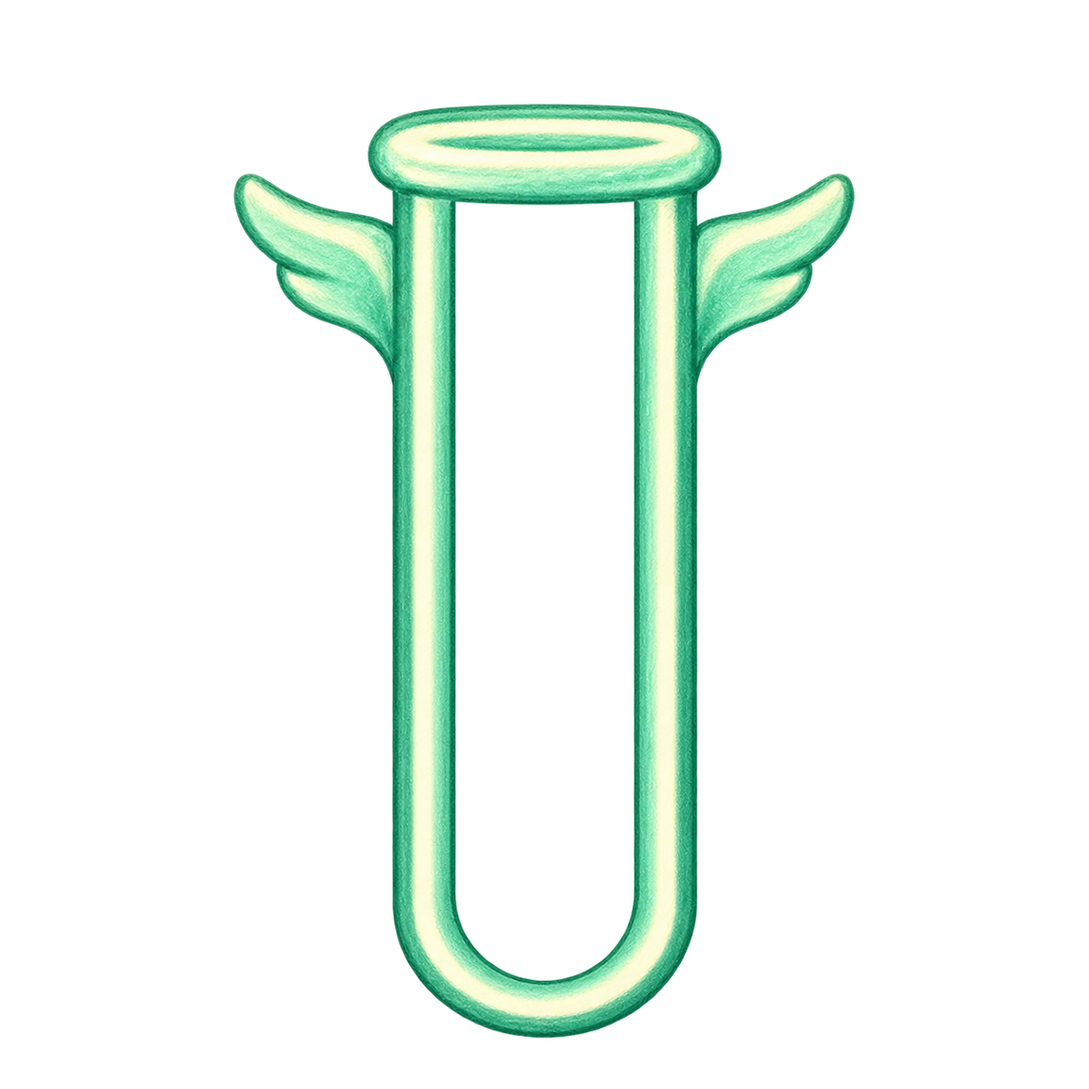
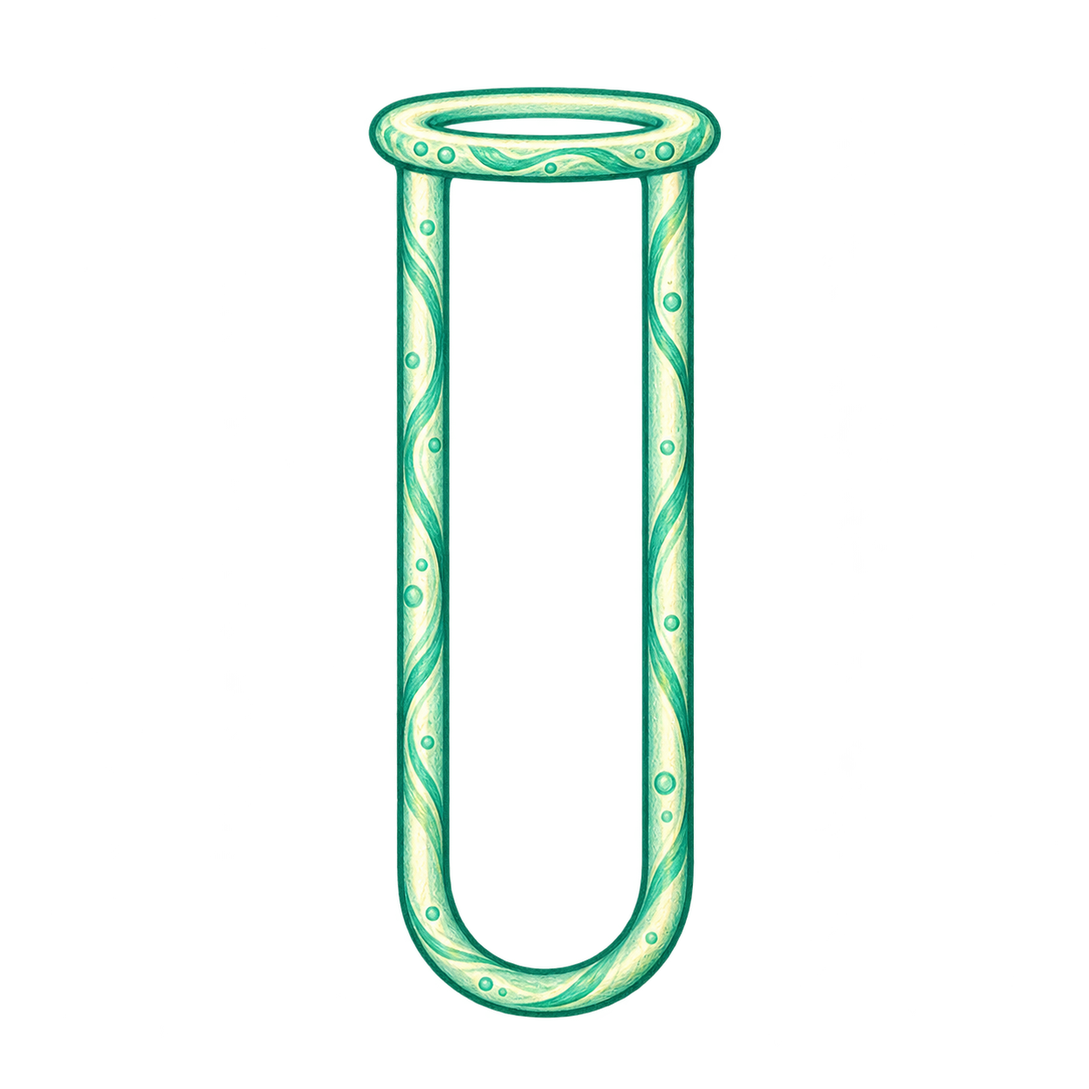
Update tube art and trigger half-strength neighbour effects on bomb closes

Changed region(s): [[0.2177, 0.0622, 0.8086, 0.9641]]

diff --git a/bot/test-combat.js b/bot/test-combat.js
@@ -222,13 +222,142 @@ test('slime close 3 shield (sponge 10); stone close counts for combo; stone hear
   assert.strictEqual(ofType(ev, 'stones').length, 1);
 });
 
-test('bomb close knocks top layers off neighbours', () => {
+test('bomb close removes one layer per neighbour and applies half effects after the blast', () => {
   const B = mkB({ tubes: [['water', 'life'], { kind: 'bomb', layers: ['fire', 'fire', 'fire'] }, ['life', 'fire'], []], filled: 4 });
   const ev = pour(B, 2, 1);
   const bomb = ofType(ev, 'bomb')[0];
   assert.deepStrictEqual(bomb.targets.map(t => t.tube), [0, 2]);
   assert.deepStrictEqual(B.field.tubes[0].layers, ['water']);
   assert.deepStrictEqual(B.field.tubes[2].layers, []);
+  assert.deepStrictEqual(ofType(ev, 'effect').filter(e => e.source === 'bomb').map(e => [e.tube, e.color, e.kind, e.value]), [[0, 'life', 'heal', 2], [2, 'life', 'heal', 2]]);
+  assert.ok(ev.indexOf(bomb) < ev.findIndex(e => e.source === 'bomb'));
+  assert.strictEqual(B.combo, 1);
+  assert.deepStrictEqual(B.stats.closes, { fire: 1 });
+  assert.strictEqual(B.lastColor, 'fire');
+});
+
+function mkBomb(left, right, opts = {}) {
+  const color = opts.color || 'water';
+  return mkB({ ...opts, tubes: [left, { kind: 'bomb', layers: Array(3).fill(color) }, right, ['life', color]], filled: 4 });
+}
+const blastEffects = ev => ofType(ev, 'effect').filter(e => e.source === 'bomb');
+
+test('bomb halves every elemental effect, control duration and dark self damage', () => {
+  const cases = {
+    fire: [['dmg', 3]], water: [['shield', 3]], life: [['heal', 2]],
+    poison: [['poison', 1]], ice: [['freeze', 1]], lightning: [['dmg', 2], ['delay', 1]],
+    dark: [['dmg', 6], ['self', 2]], slime: [['slime', 2]],
+  };
+  for (const [color, expected] of Object.entries(cases)) {
+    const B = mkBomb(['life', color], [], { rc: { hp: 30 } });
+    B.player.shield = 10;
+    const ev = pour(B, 3, 1);
+    assert.deepStrictEqual(blastEffects(ev).map(e => [e.kind, e.value]), expected, color);
+    assert.strictEqual(B.player.hp, color === 'dark' ? 28 : color === 'life' ? 32 : 30, color);
+    if (color === 'poison') {
+      assert.strictEqual(blastEffects(ev)[0].turns, 4);
+      assert.deepStrictEqual(B.enemy.poison, [{ tick: 1, turns: 3 }]);
+    }
+  }
+});
+
+test('bomb uses its own combo, rounds once and ignores the neighbour tube multiplier', () => {
+  const B = mkBomb({ kind: 'amp', layers: ['fire', 'fire'] }, [], { rc: { labFlat: { fire: 1 } } });
+  B.combo = 1;
+  const ev = pour(B, 3, 1);
+  assert.strictEqual(ofType(ev, 'close')[0].k, 1.5);
+  assert.strictEqual(blastEffects(ev)[0].value, 5);
+  assert.strictEqual(B.enemy.hp, 195);
+  assert.deepStrictEqual(B.field.tubes[0].layers, ['fire']);
+  assert.strictEqual(B.combo, 2);
+
+  const M = mkBomb(['fire'], [], { rc: { deck: { fire: 1, water: 0, life: 0 }, labFlat: { fire: 1 }, mods: { caustic: 1 }, relics: ['hot_crucible'], masteryPct: 0.1 } });
+  M.combo = 1; M.enemy.frozen = 2; M.firstStrike = 2;
+  const effects = blastEffects(pour(M, 3, 1));
+  assert.strictEqual(effects[0].value, 40);
+});
+
+test('bomb keeps poison duration and applies control and utility relics at half strength', () => {
+  const P = mkBomb(['poison'], [], { rc: { relics: ['poison_ivy'], deck: { poison: 1 } } });
+  assert.deepStrictEqual(blastEffects(pour(P, 3, 1)).map(e => [e.value, e.turns]), [[2, 8]]);
+  const I = mkBomb(['ice'], [], { rc: { deck: { ice: 1 } } });
+  I.combo = 2;
+  assert.strictEqual(blastEffects(pour(I, 3, 1))[0].value, 2);
+  const L = mkBomb(['lightning'], [], { rc: { relics: ['storm_rod'] } });
+  L.combo = 2;
+  assert.deepStrictEqual(blastEffects(pour(L, 3, 1)).map(e => [e.kind, e.value]), [['dmg', 4], ['delay', 2]]);
+  const S = mkBomb(['slime'], [], { rc: { relics: ['sponge'] } });
+  assert.strictEqual(blastEffects(pour(S, 3, 1))[0].value, 5);
+  const D = mkBomb(['dark'], [], { rc: { hp: 30, relics: ['blood_retort'] } });
+  pour(D, 3, 1);
+  assert.strictEqual(D.player.hp, 31);
+});
+
+test('bomb mirror repeats the last closed colour and blast colours do not replace it', () => {
+  const B = mkBomb(['fire'], ['mirror'], { rc: { relics: ['void_lens'] } });
+  const ev = pour(B, 3, 1);
+  assert.deepStrictEqual(blastEffects(ev).map(e => [e.tube, e.color, e.value]), [[0, 'fire', 3], [2, 'water', 3], [2, 'water', 3]]);
+  assert.strictEqual(B.lastColor, 'water');
+  const M = mkBomb(['mirror'], [], { color: 'mirror' });
+  const mev = pour(M, 3, 1);
+  assert.strictEqual(blastEffects(mev)[0].value, 2);
+  assert.strictEqual(M.lastColor, null);
+});
+
+test('bomb effects run left to right, so ice can strengthen the following fire blast', () => {
+  const B = mkBomb(['ice'], ['fire']);
+  const ev = pour(B, 3, 1);
+  assert.deepStrictEqual(blastEffects(ev).map(e => [e.tube, e.value]), [[0, 1], [2, 5]]);
+  assert.strictEqual(B.enemy.hp, 195);
+});
+
+test('bomb clears stones first, can hit frozen neighbours and does not refill empty neighbours', () => {
+  const B = mkBomb({ layers: ['fire', 'stone'], frozen: 3 }, ['slime']);
+  const ev = pour(B, 3, 1);
+  assert.deepStrictEqual(ofType(ev, 'bomb')[0].targets, [{ tube: 0, color: 'fire' }, { tube: 2, color: 'slime' }]);
+  assert.deepStrictEqual(B.field.tubes[0].layers, []);
+  assert.strictEqual(B.field.tubes[0].frozen, 2);
+  assert.deepStrictEqual(B.field.tubes[2].layers, []);
+  assert.deepStrictEqual(ofType(ev, 'refill').map(e => e.tube), [1]);
+});
+
+test('bomb on a row edge hits only its same-row neighbour and cannot trigger another bomb', () => {
+  const B = mkB({ tubes: [['fire'], { kind: 'bomb', layers: ['water', 'water', 'water'] }, { kind: 'bomb', layers: ['fire', 'fire', 'fire', 'fire'] }, ['water']], filled: 2 });
+  const ev = pour(B, 3, 1);
+  assert.deepStrictEqual(ofType(ev, 'bomb')[0].targets, [{ tube: 0, color: 'fire' }]);
+  assert.strictEqual(B.field.tubes[2].layers.length, 4);
+  assert.strictEqual(ofType(ev, 'close').length, 1);
+  const N = mkBomb([], []);
+  assert.deepStrictEqual(blastEffects(pour(N, 3, 1)), []);
+});
+
+test('great cauldron does not double bomb blasts; a bomb cascade blasts again', () => {
+  const B = mkBomb(['fire', 'fire', 'fire'], [], { rc: { relics: ['great_cauldron'] } });
+  B.combo = 3;
+  const ev = pour(B, 3, 1);
+  assert.strictEqual(blastEffects(ev).length, 1);
+  assert.strictEqual(B.enemy.hp, 191);
+  const C = mkBomb(['fire', 'fire', 'fire'], [], { queue: [Array(4).fill('water'), ...MIX] });
+  const cev = pour(C, 3, 1);
+  assert.deepStrictEqual(blastEffects(cev).map(e => e.value), [3, 5]);
+  assert.strictEqual(ofType(cev, 'bomb').length, 2);
+  assert.strictEqual(C.turn, 1);
+});
+
+test('bomb stops effects on victory or death and leaves a consistent field for revive', () => {
+  const W = mkBomb(['fire'], ['life'], { rc: { hp: 30 }, es: { hp: 3 } });
+  const wev = pour(W, 3, 1);
+  assert.strictEqual(W.status, 'won');
+  assert.strictEqual(blastEffects(wev).length, 1);
+  assert.strictEqual(W.player.hp, 30);
+  const L = mkBomb(['dark'], ['life'], { rc: { hp: 1 } });
+  const lev = pour(L, 3, 1);
+  assert.strictEqual(L.status, 'lost');
+  assert.strictEqual(blastEffects(lev).filter(e => e.kind === 'heal').length, 0);
+  assert.deepStrictEqual(L.field.tubes[0].layers, []);
+  assert.deepStrictEqual(L.field.tubes[2].layers, []);
+  assert.strictEqual(ofType(lev, 'refill').length, 1);
+  assert.ok(L.owedMove);
 });
 
 test('great cauldron at k3 fires twice; alchemist heart heals on k2+; combo elixir', () => {

diff --git a/js/core/combat.js b/js/core/combat.js
@@ -49,11 +49,11 @@ var PS = globalThis.PS || (globalThis.PS = {});
   }
 
   // README order: base + flat -> x special tube -> x k -> x relics/freeze/mastery/boosters -> round half up.
-  function scaled(B, color, k, kind) {
+  function scaled(B, color, k, kind, power = 1) {
     let m = 1 + (B.masteryPct || 0);
     if (DMG_COLORS[color] || color === 'poison') m *= B.firstStrike || 1;
     if (DMG_COLORS[color]) m *= vulnMult(B);
-    return rnd(flat(B, color) * tubeMult(kind) * k * m);
+    return rnd(flat(B, color) * tubeMult(kind) * k * m * power);
   }
 
   function freezeTurns(B, step) {
@@ -136,44 +136,45 @@ var PS = globalThis.PS || (globalThis.PS = {});
   }
 
   // ---- colour effects ----
-  function applyColor(B, color, step, kind, ev, viaMirror) {
+  function applyColor(B, color, step, kind, ev, viaMirror, power = 1) {
     if (!alive(B)) return;
     const k = kOf(B, step), C = D().elements;
     switch (color) {
       case 'fire': case 'lightning': case 'dark': {
-        const v = scaled(B, color, k, kind);
+        const v = scaled(B, color, k, kind, power);
         ev.push({ type: 'effect', color, kind: 'dmg', value: v });
         hitEnemy(B, v, color, ev);
         if (!alive(B)) break;
         if (color === 'lightning') {
-          const d = delayTurns(B, step);
+          const d = rnd(delayTurns(B, step) * power);
           B.enemy.timer += d;
           if (has(B, 'storm_rod')) relicEv(ev, 'storm_rod');
           ev.push({ type: 'effect', color, kind: 'delay', value: d });
         } else if (color === 'dark') {
-          if (has(B, 'blood_retort')) { relicEv(ev, 'blood_retort'); healPlayer(B, D().relics.blood_retort.heal, 'blood_retort', ev); } else {
-            ev.push({ type: 'effect', color, kind: 'self', value: C.dark.base.self });
-            hurtPlayer(B, C.dark.base.self, 'dark', ev, true);
+          if (has(B, 'blood_retort')) { relicEv(ev, 'blood_retort'); healPlayer(B, rnd(D().relics.blood_retort.heal * power), 'blood_retort', ev); } else {
+            const self = rnd(C.dark.base.self * power);
+            ev.push({ type: 'effect', color, kind: 'self', value: self });
+            hurtPlayer(B, self, 'dark', ev, true);
           }
         }
         break;
       }
-      case 'water': addShield(B, scaled(B, color, k, kind), color, ev); break;
+      case 'water': addShield(B, scaled(B, color, k, kind, power), color, ev); break;
       case 'life': {
-        const v = scaled(B, color, k, kind);
+        const v = scaled(B, color, k, kind, power);
         ev.push({ type: 'effect', color, kind: 'heal', value: v });
         healPlayer(B, v, 'life', ev);
         break;
       }
       case 'poison': {
-        const v = scaled(B, color, k, kind);
+        const v = scaled(B, color, k, kind, power);
         const turns = has(B, 'poison_ivy') ? D().relics.poison_ivy.turns : C.poison.base.turns;
         B.enemy.poison.push({ tick: v, turns });
         ev.push({ type: 'effect', color, kind: 'poison', value: v, turns });
         break;
       }
       case 'ice': {
-        const n = freezeTurns(B, step);
+        const n = rnd(freezeTurns(B, step) * power);
         // Max instead of sum: stacking ice would otherwise lock the enemy forever.
         B.enemy.frozen = Math.max(B.enemy.frozen, n);
         ev.push({ type: 'effect', color, kind: 'freeze', value: n });
@@ -184,13 +185,13 @@ var PS = globalThis.PS || (globalThis.PS = {});
         if (B.lastColor) {
           const times = has(B, 'void_lens') ? D().relics.void_lens.times : 1;
           if (times > 1) relicEv(ev, 'void_lens');
-          for (let i = 0; i < times; i++) applyColor(B, B.lastColor, step, kind, ev, true);
-        } else addShield(B, C.mirror.base.fallbackShield, 'mirror', ev);
+          for (let i = 0; i < times; i++) applyColor(B, B.lastColor, step, kind, ev, true, power);
+        } else addShield(B, rnd(C.mirror.base.fallbackShield * power), 'mirror', ev);
         break;
       }
       case 'slime':
         if (has(B, 'sponge')) relicEv(ev, 'sponge');
-        addShield(B, effectValue(B, 'slime'), 'slime', ev);
+        addShield(B, rnd(effectValue(B, 'slime') * power), 'slime', ev);
         break;
     }
     if (!viaMirror && color !== 'mirror' && !JUNK[color]) B.lastColor = color;
@@ -230,7 +231,15 @@ var PS = globalThis.PS || (globalThis.PS = {});
     if (t.kind === 'bomb') {
       const targets = Fd().bombNeighbors(F, i);
       if (targets.length) ev.push({ type: 'bomb', tube: i, targets, tubes: tubesOf(F) });
+      for (const target of targets) {
+        const start = ev.length;
+        applyColor(B, target.color, step, 'plain', ev, true, D().tubes.bomb.effectMult);
+        for (let x = start; x < ev.length; x++) {
+          if (ev[x].type === 'effect') Object.assign(ev[x], { source: 'bomb', tube: target.tube });
+        }
+      }
     }
+    if (B.status !== 'active' && B.status !== 'lost') return;
     t.frozen = 0;
     Fd().refill(F, B.rng, i);
     ev.push({ type: 'refill', tube: i, tubes: tubesOf(F), queue: queueOf(F) });

diff --git a/css/battle.css b/css/battle.css
@@ -117,17 +117,17 @@
   box-shadow: 0 0 8px 2px var(--peach2), 0 0 3px 1px var(--peach); opacity: 0; animation: btHint 1s infinite; }
 .bt-tw.bomb-n .bt-tube { filter: drop-shadow(0 0 4px #ffb27acc) drop-shadow(0 4px 5px rgba(50, 110, 130, .2)); }
 /* The glass is a drawing from img/tubes (256px wide, trimmed to the art). Its numbers are image pixels, measured per file:
-   --gw body width (the tube's box), --gl/--gr overhang (rim, wings, fuse), --gt rim bottom, --gst top slice (rim plus any side decoration,
+   --gw body width (the tube's box), --gl/--gr rim overhang, --gt rim bottom, --gst top slice (rim plus any side decoration,
    so it never stretches), --gs bottom slice holding the round end, --wl/--wr walls, --gb glass under the hollow. --s maps them onto the tube; the rim and bottom keep their shape, only the straight middle stretches. */
-.bt-tw, .bt-tube { --glass: url(../img/tubes/tube_plain.webp); --gw: 212; --gl: 22; --gr: 22; --gt: 67; --gst: var(--gt); --gs: 95; --wl: 38; --wr: 38; --gb: 33; }
+.bt-tw, .bt-tube { --glass: url(../img/tubes/tube_plain.webp); --gw: 214; --gl: 21; --gr: 21; --gt: 66; --gst: var(--gt); --gs: 110; --wl: 36; --wr: 36; --gb: 36; }
 .bt-tube {
   --s: calc(100cqw / var(--gw)); position: relative; width: 100%; height: calc(var(--cap) * var(--lh) + (var(--gt) + var(--gb)) * var(--s) + 4px);
   filter: drop-shadow(0 4px 5px rgba(50, 110, 130, .2)); }
-.bt-tube.k-vial, .bt-tw[data-kind="vial"] { --glass: url(../img/tubes/tube_vial.webp); --gw: 210; --gl: 23; --gr: 23; --gt: 71; --gs: 90; --wl: 42; --wr: 43; --gb: 36; }
-.bt-tube.k-amp, .bt-tw[data-kind="amp"] { --glass: url(../img/tubes/tube_amp.webp); --gw: 252; --gl: 66; --gr: 66; --gt: 100; --gst: 205; --gs: 107; --wl: 54; --wr: 54; --gb: 46; }
-.bt-tube.k-catalyst, .bt-tw[data-kind="catalyst"] { --glass: url(../img/tubes/tube_catalyst.webp); --gw: 189; --gl: 98; --gr: 97; --gt: 61; --gst: 170; --gs: 84; --wl: 39; --wr: 39; --gb: 35; }
-.bt-tube.k-bomb, .bt-tw[data-kind="bomb"] { --glass: url(../img/tubes/tube_bomb.webp); --gw: 198; --gl: 19; --gr: 167; --gt: 151; --gst: 200; --gs: 90; --wl: 43; --wr: 42; --gb: 40; }
-.bt-tube.k-sieve, .bt-tw[data-kind="sieve"] { --glass: url(../img/tubes/tube_sieve.webp); --gw: 200; --gl: 29; --gr: 27; --gt: 89; --gst: 115; --gs: 85; --wl: 40; --wr: 41; --gb: 35; }
+.bt-tube.k-vial, .bt-tw[data-kind="vial"] { --glass: url(../img/tubes/tube_vial.webp); --gw: 216; --gl: 20; --gr: 20; --gt: 68; --gs: 112; --wl: 39; --wr: 39; --gb: 38; }
+.bt-tube.k-amp, .bt-tw[data-kind="amp"] { --glass: url(../img/tubes/tube_amp.webp); --gw: 214; --gl: 21; --gr: 21; --gt: 68; --gs: 110; --wl: 38; --wr: 38; --gb: 36; }
+.bt-tube.k-catalyst, .bt-tw[data-kind="catalyst"] { --glass: url(../img/tubes/tube_catalyst.webp); --gw: 214; --gl: 21; --gr: 21; --gt: 70; --gs: 110; --wl: 38; --wr: 38; --gb: 36; }
+.bt-tube.k-bomb, .bt-tw[data-kind="bomb"] { --glass: url(../img/tubes/tube_bomb.webp); --gw: 218; --gl: 19; --gr: 19; --gt: 70; --gs: 114; --wl: 41; --wr: 41; --gb: 39; }
+.bt-tube.k-sieve, .bt-tw[data-kind="sieve"] { --glass: url(../img/tubes/tube_sieve.webp); --gw: 214; --gl: 21; --gr: 21; --gt: 72; --gs: 112; --wl: 39; --wr: 39; --gb: 37; }
 .bt-tube::before { content: ''; position: absolute; z-index: 3; pointer-events: none; top: 0; bottom: 0;
   left: calc(var(--gl) * var(--s) * -1); right: calc(var(--gr) * var(--s) * -1);
   border-style: solid; border-width: calc(var(--gst) * var(--s)) 0 calc(var(--gs) * var(--s)); border-image: var(--glass) var(--gst) 0 var(--gs) fill stretch; }

diff --git a/index.html b/index.html
@@ -12,8 +12,8 @@
 <!-- the sky is a CSS background of a node the scripts create, so the browser would only find it late -->
 <link rel="preload" href="img/sky/sky_day.webp" as="image" fetchpriority="high">
 <link rel="stylesheet" href="css/style.css?v=77587297">
-<link rel="stylesheet" href="css/battle.css?v=76887d8a">
-<link rel="stylesheet" href="css/battle-cloud.css?v=13ff45af">
+<link rel="stylesheet" href="css/battle.css?v=c166b2cc">
+<link rel="stylesheet" href="css/battle-cloud.css?v=6510fd8e">
 <link rel="stylesheet" href="css/debug.css?v=242c4b26">
 </head>
 <body data-theme="day">
@@ -27,13 +27,13 @@
 <div id="vignette"></div>
 <div id="fx"></div>
 
-<script src="js/data.js?v=acaed8e4"></script>
-<script src="js/data-en.js?v=b112dca0"></script>
+<script src="js/data.js?v=ea640518"></script>
+<script src="js/data-en.js?v=4cd90e19"></script>
 <script src="js/i18n.js?v=48b9dfd1"></script>
 <script src="js/core/rng.js?v=9c908f9c"></script>
 <script src="js/core/util.js?v=25431beb"></script>
 <script src="js/core/field.js?v=5a3dd46a"></script>
-<script src="js/core/combat.js?v=fbfd890f"></script>
+<script src="js/core/combat.js?v=aceb5cd0"></script>
 <script src="js/core/run.js?v=c8b9a04b"></script>
 <script src="js/core/meta.js?v=75c39725"></script>
 <script src="js/ui/sound.js?v=1fe20653"></script>
@@ -43,7 +43,7 @@
 <script src="js/ui/battle-layout.js?v=f9fb8fb4"></script>
 <script src="js/ui/screens/main.js?v=ab1a8577"></script>
 <script src="js/ui/screens/start.js?v=dd9f2287"></script>
-<script src="js/ui/screens/battle.js?v=0ad5431c"></script>
+<script src="js/ui/screens/battle.js?v=801bbe1a"></script>
 <script src="js/ui/screens/results.js?v=f1968183"></script>
 <script src="js/ui/screens/cleared.js?v=a8639447"></script>
 <script src="js/ui/screens/lab.js?v=fb4bd756"></script>

diff --git a/js/data.js b/js/data.js
@@ -105,7 +105,7 @@ var PS = globalThis.PS || (globalThis.PS = {});
     amp: { id: 'amp', name: 'Усилитель', unlock: 3, mult: 2, desc: 'Эффект закрытия ×2.' },
     catalyst: { id: 'catalyst', name: 'Катализатор', unlock: 5, desc: 'Закрытие в ней не тратит ход.' },
     sieve: { id: 'sieve', name: 'Сито', unlock: 3, desc: 'Камень и слизь, налитые в неё или брошенные врагом, исчезают; переливание мусора не тратит ход.' },
-    bomb: { id: 'bomb', name: 'Бомба', unlock: 7, targets: 2, desc: 'При закрытии сбивает верхний слой у двух соседних колб (соседи подсвечиваются).' },
+    bomb: { id: 'bomb', name: 'Бомба', unlock: 7, targets: 2, effectMult: 0.5, desc: 'При закрытии взрывает по одному верхнему слою у соседей слева и справа в своём ряду. Каждый слой даёт 50% эффекта обычного закрытия с тем же комбо. Соседи подсвечиваются.' },
     vial: { id: 'vial', name: 'Пробирка', unlock: 10, cap: 2, desc: '2 слоя любых цветов вперемешку, никогда не закрывается.' }
   };
 

diff --git a/css/battle-cloud.css b/css/battle-cloud.css
@@ -80,7 +80,6 @@ body[data-screen="battle"][data-theme="night"] { background: #152738; }
 .scr-battle .bt-row { flex: 0 0 auto; width: max-content; min-width: 100%; gap: 4px; align-items: flex-end; }
 .scr-battle .bt-tw { flex: 0 0 var(--tube-hit, 54px); width: var(--tube-hit, 54px); min-width: 44px; min-height: 44px; margin: 0 !important; }
 .scr-battle .bt-tube { --s: calc(var(--tube-w) / var(--gw)); width: var(--tube-w); flex: none; }
-/* The hit area reserves --gl on the left and --gr on the right; a bomb's fuse sticks out one side only, so the glass sits after its own left overhang instead of in the middle. */
 .scr-battle .bt-tw { align-items: flex-start; }
 .scr-battle .bt-tube { margin-left: calc(var(--gl) * var(--s) + 2px); }
 .scr-battle .bt-tw.sel { transform: translateY(-12px); }

diff --git a/js/data-en.js b/js/data-en.js
@@ -50,7 +50,7 @@ var PS = globalThis.PS || (globalThis.PS = {});
       amp: { name: 'Amplifier', desc: 'Closing effect ×2.' },
       catalyst: { name: 'Catalyst', desc: 'Closing in it doesn\'t use a turn.' },
       sieve: { name: 'Sieve', desc: 'Stone and slime poured or thrown into it vanish; pouring junk doesn\'t use a turn.' },
-      bomb: { name: 'Bomb', desc: 'On closing, knocks the top layer off two neighbouring tubes (neighbours are highlighted).' },
+      bomb: { name: 'Bomb', desc: 'On closing, blasts one top layer from each neighbour to the left and right in the same row. Each layer triggers 50% of a normal closing effect at the same combo. Neighbours are highlighted.' },
       vial: { name: 'Vial', desc: '2 layers of any colors mixed, never closes.' }
     },
     rarity: {

diff --git a/js/ui/screens/battle.js b/js/ui/screens/battle.js
@@ -584,7 +584,7 @@ var PS = globalThis.PS || (globalThis.PS = {});
     async effect(ev) {
       const vm = S.vm, color = ev.color === 'slime' ? '#5bb8ff' : colorDef(ev.color).css;
       if (ev.kind === 'self' || ev.kind === 'stone') return 0;
-      const from = ev.source === 'firebomb' ? $('.bt-belt') : flySrc();
+      const from = ev.source === 'firebomb' ? $('.bt-belt') : ev.tube != null ? tubeEl(ev.tube) : flySrc();
       await Fx.fly(from, effTarget(ev.kind), color, { size: 22 });
       if (ev.kind === 'shield' || ev.kind === 'slime') {
         vm.pShield += ev.value; renderPlayer(); Snd.play('shield');

diff --git a/tools/compress-images.py b/tools/compress-images.py
@@ -5,8 +5,7 @@ from PIL import Image
 
 ROOT = pathlib.Path(__file__).resolve().parent.parent / 'img'
 # Longest on-screen width (CSS px) x 3 for dense phone screens; the first matching glob wins, unmatched files keep their size.
-# Tubes with wings, arrows or a fuse spend part of the width on them, so they get more pixels to keep the glass itself sharp.
-MAX_W = [('tubes/cork*', 128), ('tubes/tube_amp*', 384), ('tubes/tube_catalyst*', 384), ('tubes/tube_bomb*', 384), ('tubes/*', 256), ('texture/tubes/*', 384), ('islands/*', 1024), ('battle/*', 1536), ('mobs/*', 512), ('sky/cloud_*', 768), ('icons/*', 256), ('texture/*', 512)]
+MAX_W = [('tubes/cork*', 128), ('tubes/*', 256), ('texture/tubes/*', 384), ('islands/*', 1024), ('battle/*', 1536), ('mobs/*', 512), ('sky/cloud_*', 768), ('icons/*', 256), ('texture/*', 512)]
 # Smooth gradients band and fine paper grain washes out at lower quality.
 QUALITY = [('sky/sky_*', 92), ('texture/tubes/*', 85), ('texture/*', 96)]
 DEFAULT_Q = 85

diff --git a/docs/v2/ARCHITECTURE.md b/docs/v2/ARCHITECTURE.md
@@ -81,7 +81,7 @@ PS.DATA = {
   mods:  { tough: {cap: 3, unlock: 1, maxHp: 10, heal: 10}, apron: {cap: 3, pct: 0.10}, caustic: {cap: 3, dmg: 2}, bubble: {cap: 3, shield: 6},
            prep: {cap: 3, dmg: 6}, thorns: {cap: 3, dmg: 3}, leech: {cap: 3, pct: 0.10}, combo_master: {cap: 2, add: 0.25}, potion_pick: {cap: 0 /*без потолка*/, choices: 3} },
   finds: { new_color: {unlock: 2}, boost_color: {unlock: 1, cap: 3}, special_tube: {unlock: 3}, extra_slot: {unlock: 5}, filter: {unlock: 3, cap: 1, pct: 0.5, requires: 'junkEnemy'} },
-  tubes: { plain: {cap: 4}, amp: {unlock: 3, mult: 2}, catalyst: {unlock: 5}, sieve: {unlock: 3}, bomb: {unlock: 7}, big: {unlock: 10, cap: 6, mult: 1.5}, vial: {unlock: 10, cap: 2} },
+  tubes: { plain: {cap: 4}, amp: {unlock: 3, mult: 2}, catalyst: {unlock: 5}, sieve: {unlock: 3}, bomb: {unlock: 7, effectMult: 0.5}, big: {unlock: 10, cap: 6, mult: 1.5}, vial: {unlock: 10, cap: 2} },
   rarity: { common: {weight: 60, unlock: 1}, rare: {weight: 30, unlock: 5}, legendary: {weight: 10, unlock: 8} },
   relics: { hot_crucible: {rarity: 'common', requires: null, dmg: 4}, ... },   // requires: null | {color: 'water'} | {enemy: 'stone'|'spores'|'fieldSpoiler'}
   lab:   { vitality: {tiers: 8, costs: [20, 30, 50, ...], unlock: 1, per: {maxHp: 5}}, ... },   // costs уже посчитаны и округлены до 5
@@ -166,7 +166,17 @@ PS.Combat.effectValue(B, colorId, k) -> число эффекта (для под
 
 **События** (`{type, ...}`; поля, затрагивающие поле, несут `tubes` — копию слоёв всех колб после шага, чтобы UI рисовал промежуточные состояния):
 
-`pour {from, to, n, color, tubes}` · `swallow {tube}` · `close {tube, color, k, cascade, tubes}` · `effect {color, kind: 'dmg'|'shield'|'heal'|'poison'|'freeze'|'delay'|'self'|'slime'|'stone', value}` · `refill {tube, tubes}` · `stones {tube, n, tubes}` · `bomb {tube, targets, tubes}` · `combo {k}` · `turn {free: bool, reason}` · `poison_tick {dmg}` · `burn_tick {dmg}` · `enemy_act {t, v, tubes?, target?}` · `player_hit {dmg, absorbed}` · `enemy_hit {dmg, absorbed, source}` · `enemy_heal {v}` · `enemy_shield {v}` · `intent {t, v, timer}` · `rage` · `frozen_enemy {turns}` · `dead_end` · `drain {tube, free, refilled, tubes}` · `potion {id, tube?}` · `heal {v}` · `relic {id}` (сработала реликвия) · `twist {type, ...}` · `enemy_dead` · `boss_fled` · `player_dead`.
+`pour {from, to, n, color, tubes}` · `swallow {tube}` · `close {tube, color, k, cascade, tubes}` · `effect {color, kind: 'dmg'|'shield'|'heal'|'poison'|'freeze'|'delay'|'self'|'slime'|'stone', value, source?, tube?}` · `refill {tube, tubes}` · `stones {tube, n, tubes}` · `bomb {tube, targets, tubes}` · `combo {k}` · `turn {free: bool, reason}` · `poison_tick {dmg}` · `burn_tick {dmg}` · `enemy_act {t, v, tubes?, target?}` · `player_hit {dmg, absorbed}` · `enemy_hit {dmg, absorbed, source}` · `enemy_heal {v}` · `enemy_shield {v}` · `intent {t, v, timer}` · `rage` · `frozen_enemy {turns}` · `dead_end` · `drain {tube, free, refilled, tubes}` · `potion {id, tube?}` · `heal {v}` · `relic {id}` (сработала реликвия) · `twist {type, ...}` · `enemy_dead` · `boss_fled` · `player_dead`.
+
+### Бомба
+
+При закрытии `bomb` сначала срабатывает её собственный эффект и обычное разрушение камней у соседей. `Field.bombNeighbors` снимает по одному верхнему слою у непустых соседей слева и справа в том же ряду; событие `bomb` содержит снятые цвета и снимок поля. Заморозка соседней колбы не мешает взрыву, пустые соседи не дозаполняются.
+
+Затем Combat применяет цвета слева направо с `tubes.bomb.effectMult = 0.5`, k закрытия самой Бомбы и свойствами обычной колбы. Урон, щит, лечение, урон яда за ход, самоурон тьмы и длительности льда/задержки молнии делятся пополам до единственного округления (0,5 вверх); длительность яда и уязвимость замороженного врага прежние. Зеркало повторяет последний закрытый цвет с половинной силой, слизь даёт половину щита. Эффекты реликвий стихии сохраняются с тем же ослаблением; реликвии «за закрытие» повторно не запускаются.
+
+Эффекты взрыва не считаются закрытиями, не растят комбо или счётчики и не меняют `lastColor`; свойства колб-соседей не срабатывают. Великий котёл не повторяет взрыв, каскад самой Бомбы повторяет. События `effect` взрыва несут `source: 'bomb'` и `tube` соседа: UI отправляет эффект из него, после анимации взрыва. При победе или смерти оставшиеся эффекты прекращаются; после смерти поле заканчивает удаление и дозаливку самой Бомбы для воскрешения.
+
+Полная спецификация и примеры — [Pour & Slay: особые колбы](../../../pour-and-slay/docs/content/tubes.md#взрыв-бомбы).
 
 ## PS.Run (`js/core/run.js`)
 

diff --git a/docs/v2/LESSONS.md b/docs/v2/LESSONS.md
@@ -63,3 +63,6 @@
 ## Процесс
 - **`git push` блокирует хук** («git push is disabled by policy»). Обходить нельзя; даны команды, пушит пользователь. Это правило из личного `CLAUDE.md`, а не недоразумение.
 - **Скриншоты в pour-and-slay** пересняты `tools/shoot-screens.mjs` после правок каталога. Часть файлов (главная, старт, ежедневка, магазин, лаборатория, коллекция, настройки, печать, итоги) получилась побайтово такой же, как была, — это норма, а не ошибка съёмки.
+
+- **Бомба без эффекта снятых слоёв почти бесполезна.** Взрыв теперь даёт 50% эффекта каждого верхнего слоя с k закрытия Бомбы. Это не новое закрытие: не меняет комбо и последний закрытый цвет Зеркала. Сила делится до округления, а в событии эффекта нужен индекс соседа, чтобы анимация летела из правильной колбы.
+- **Новый арт требует новых размеров стекла.** У обновлённых колб больше нет боковых крыльев и фитиля; старые отступы сдвигали жидкость и сужали поле. Все стёкла сжимаются до 256 px, обод, стенки и дно измерены заново по WebP.
